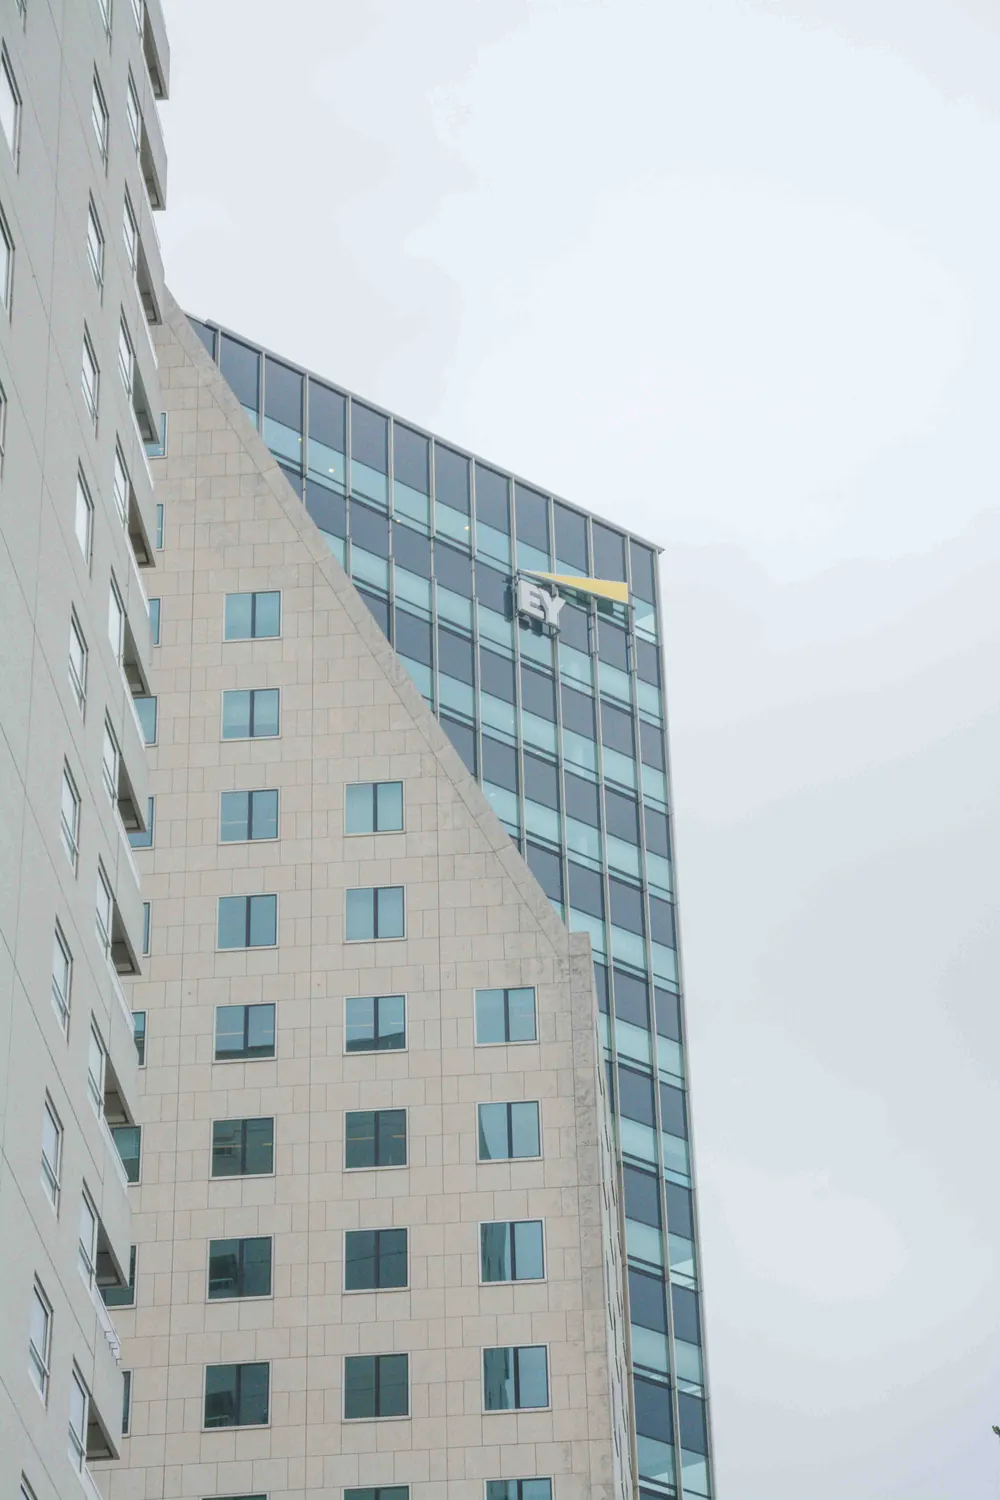
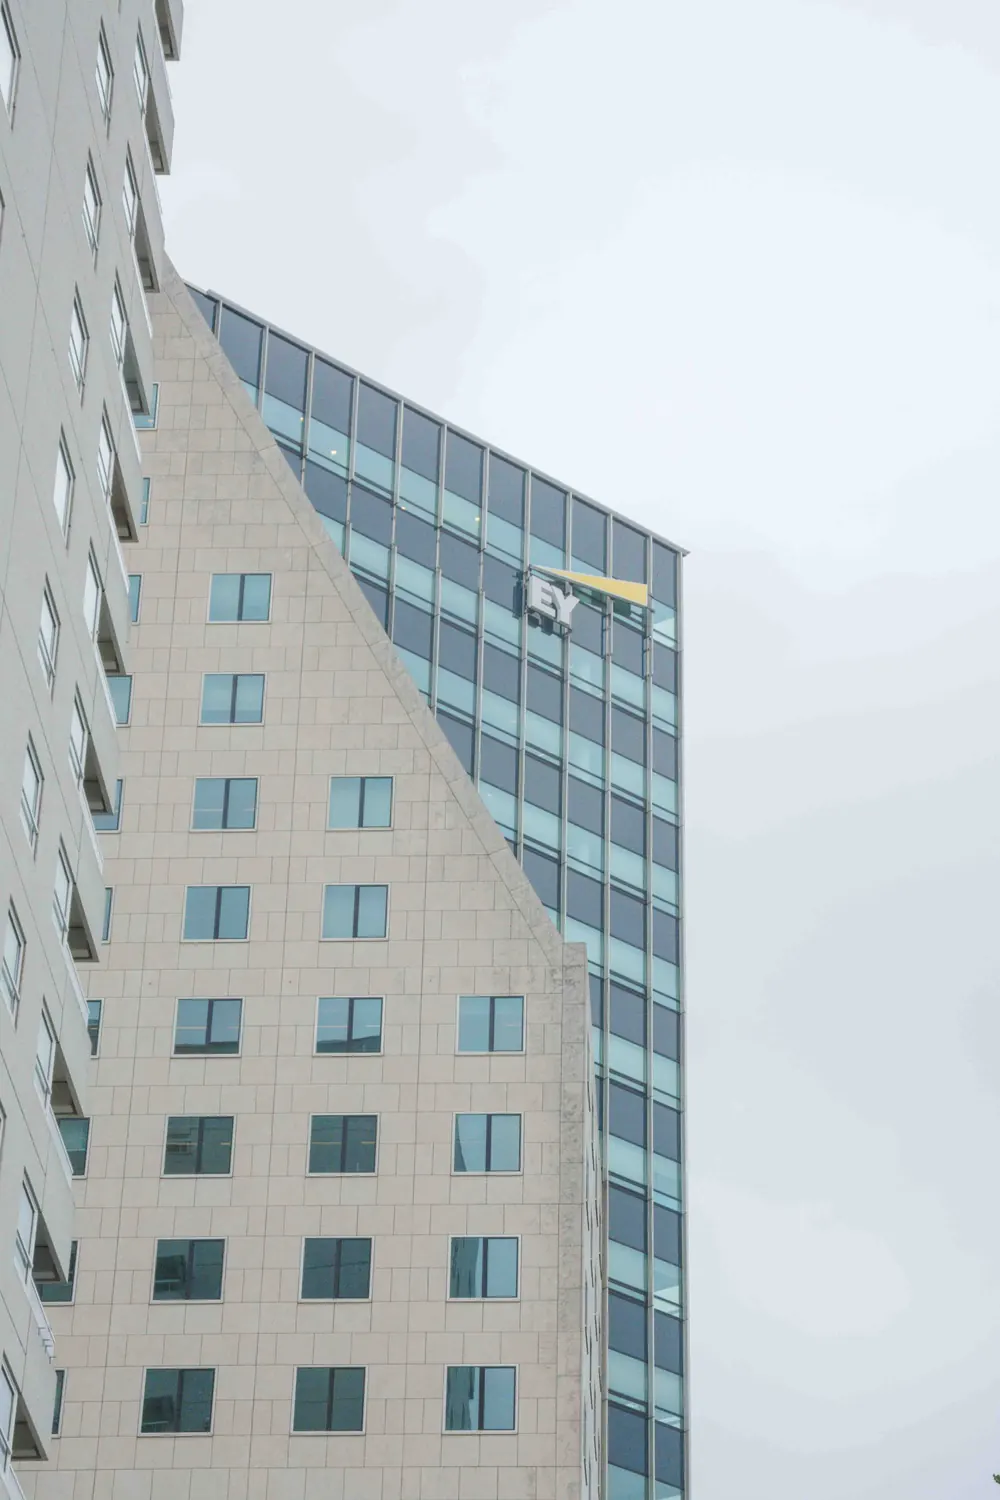
fix(bilder): sieben schiefe Aufnahmen geradegerueckt
Gemessen mit zwei unabhaengigen Zeugen: der Richtung der fast senkrechten
und der der fast waagerechten Kanten. Eine echte Kameradrehung verdreht
beide um denselben Betrag, Perspektive und Dachschraegen nicht. Nur wo
beide innerhalb von 1,2 Grad uebereinstimmten, galt der Wert; jede
Korrektur wurde danach mit einem Gitter im Bild gegengeprueft.

  Rotterdam-14  +3,19  Kubuswoningen, Wohnstrasse
  Rotterdam-59  -3,07  EY, Lochfassade
  Rotterdam-41  +1,86  Wijnhaveneiland, Hafenbecken
  Rotterdam-33  -1,20  Witte Huis, vom Kai
  Rotterdam-39  +0,69  Witte Huis, Oude Haven
  Rotterdam-43  -0,60  Kubuswoningen, ueber der Oude Haven
  Rotterdam-27  -0,51  Kubuswoningen, Ladenzeile

Gedreht wird beim Aufbereiten, nicht am Original: die Winkel stehen in
tools/gerade.py, die Dateien in Fotos Export bleiben unberuehrt. Nach dem
Drehen wird auf den groessten zentrierten Ausschnitt gleichen
Seitenverhaeltnisses beschnitten, deshalb stimmen die Masse in index.html
unveraendert weiter.

Nicht angetastet: die uebrigen 51. Die Kubuswoningen sind um 45 Grad
gekippte Wuerfel, und die meisten Aufnahmen blicken nach oben; dort gibt
es keine Senkrechte, an der eine Messung sich festhalten koennte. Eine
erste Messung ueber alle Kanten meldete dort acht Grad, obwohl die
Aufnahme gerade ist.

Cache auf v58. Gegenprobe an den erzeugten Bildern: die drei groessten
Schieflagen liegen jetzt bei -0,42, -0,07 und +0,13 Grad.

diff --git a/sw.js b/sw.js
@@ -10,7 +10,7 @@
    ⚠ Bump CACHE version on every deploy that changes files.
 ═══════════════════════════════════════════════════════════ */
 
-const CACHE = 'wijnhaven-v57';
+const CACHE = 'wijnhaven-v58';
 
 /* Cross-origin hosts we are allowed to cache (all send CORS headers, so the
    responses are readable/cacheable — needed for offline fonts + 3D on-site).

diff --git a/tools/gerade.py b/tools/gerade.py
@@ -1,0 +1,63 @@
+# -*- coding: utf-8 -*-
+"""Schiefe Aufnahmen beim Aufbereiten geradestellen.
+
+Die Originale in "Fotos Export" bleiben unberuehrt. Gedreht wird erst auf dem
+Weg zur Website, damit der Eingriff jederzeit ruecknehmbar ist: Winkel aus der
+Tabelle streichen, Bilder neu erzeugen, fertig.
+
+Die Winkel sind gemessen und von Hand nachgeprueft. Gemessen wurde mit zwei
+voneinander unabhaengigen Zeugen: der Richtung der fast senkrechten und der
+der fast waagerechten Kanten. Eine echte Kameradrehung verdreht beide um
+denselben Betrag, Perspektive und Dachschraegen nicht. Nur wo beide Zeugen
+innerhalb von 1,2 Grad uebereinstimmten, gilt der Wert; jede Korrektur wurde
+danach mit einem Gitter im Bild gegengeprueft.
+
+Warum nicht alle 58: Die Kubuswoningen bestehen aus um 45 Grad gekippten
+Wuerfeln, und die meisten Aufnahmen blicken nach oben. Dort gibt es keine
+Senkrechte, an der sich eine Messung festhalten koennte. Was dort schief
+aussieht, ist die Sache selbst.
+"""
+import math
+
+from PIL import Image
+
+# Datei aus "Fotos Export" -> Drehung in Grad (positiv: gegen den Uhrzeigersinn)
+WINKEL = {
+    'Rotterdam-14.jpg': +3.19,   # Kubuswoningen, Blick die Wohnstrasse entlang
+    'Rotterdam-59.jpg': -3.07,   # EY, Lochfassade
+    'Rotterdam-41.jpg': +1.86,   # Wijnhaveneiland, Hafenbecken
+    'Rotterdam-33.jpg': -1.20,   # Witte Huis, vom Kai
+    'Rotterdam-39.jpg': +0.69,   # Witte Huis, Oude Haven
+    'Rotterdam-43.jpg': -0.60,   # Kubuswoningen, ueber der Oude Haven
+    'Rotterdam-27.jpg': -0.51,   # Kubuswoningen, Ladenzeile
+}
+
+
+def _kasten(w, h, grad):
+    """Groesstes zentriertes Rechteck gleichen Seitenverhaeltnisses im gedrehten Bild.
+
+    Ohne diesen Zuschnitt staenden nach dem Drehen leere Ecken im Bild.
+    """
+    a = abs(math.radians(grad))
+    lang, kurz = (w, h) if w >= h else (h, w)
+    sa, ca = abs(math.sin(a)), abs(math.cos(a))
+    if kurz <= 2 * sa * ca * lang or abs(sa - ca) < 1e-10:
+        x = 0.5 * kurz
+        return (x / sa, x / ca) if w >= h else (x / ca, x / sa)
+    c = ca * ca - sa * sa
+    return (w * ca - h * sa) / c, (h * ca - w * sa) / c
+
+
+def geraderuecken(im, datei):
+    """Bild drehen und auf den vollen Rahmen zuschneiden. Unbekannte bleiben, wie sie sind."""
+    g = WINKEL.get(datei)
+    if not g:
+        return im, 0.0
+    w, h = im.size
+    gedreht = im.rotate(g, resample=Image.BICUBIC, expand=False)
+    wr, hr = _kasten(w, h, g)
+    cx, cy = w / 2.0, h / 2.0
+    zu = gedreht.crop((int(round(cx - wr / 2)), int(round(cy - hr / 2)),
+                       int(round(cx + wr / 2)), int(round(cy + hr / 2))))
+    # Seitenverhaeltnis exakt halten, damit die Masse in index.html stimmen
+    return zu.resize((w, h), Image.LANCZOS), g

diff --git a/README.md b/README.md
@@ -503,6 +503,25 @@ zusammen 8,1 MB. Sieben Aufnahmen sind auf Wunsch wieder herausgenommen; die
 Dateien sind fortlaufend nummeriert, die dahinterliegenden rücken deshalb auf. An erster Stelle steht je Bauwerk die beste Übersicht, dahinter
 nähere Aufnahmen und Details.
 
+**Sieben Aufnahmen standen schief** und werden beim Aufbereiten geradegerückt
+(`gerade.py`, Winkel zwischen 0,5 und 3,2 Grad). Die Originale in `Fotos Export`
+bleiben unberührt, gedreht wird erst auf dem Weg zur Website: Winkel aus der Tabelle
+streichen, Bilder neu erzeugen, und der Eingriff ist weg.
+
+Gemessen wurde mit zwei unabhängigen Zeugen, der Richtung der fast senkrechten und
+der der fast waagerechten Kanten. Eine echte Kameradrehung verdreht beide um denselben
+Betrag, Perspektive und Dachschrägen nicht. Nur wo beide innerhalb von 1,2 Grad
+übereinstimmten, galt der Wert; jede Korrektur wurde danach mit einem Gitter im Bild
+gegengeprüft. Nach dem Drehen wird auf den größten zentrierten Ausschnitt gleichen
+Seitenverhältnisses beschnitten, damit keine leeren Ecken bleiben und die Maße in
+`index.html` weiter stimmen.
+
+**Warum nicht alle:** Die Kubuswoningen bestehen aus um 45 Grad gekippten Würfeln, und
+die meisten Aufnahmen blicken nach oben. Dort gibt es keine Senkrechte, an der sich
+eine Messung festhalten könnte. Eine erste Messung über alle Kanten meldete dort acht
+Grad Schieflage, obwohl die Aufnahme gerade ist. Was dort schief aussieht, ist die
+Sache selbst.
+
 Drei Dinge waren dafür an der Galerie nötig, sonst hätte ein Eintrag mit 21 Bildern
 mehrere Megabyte auf einmal geholt:
 
